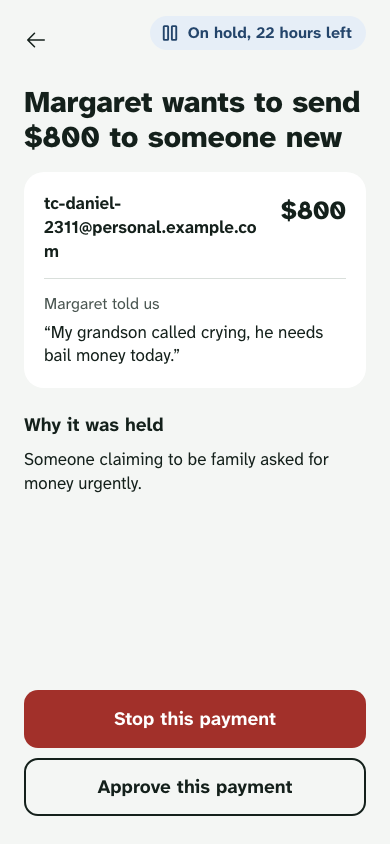
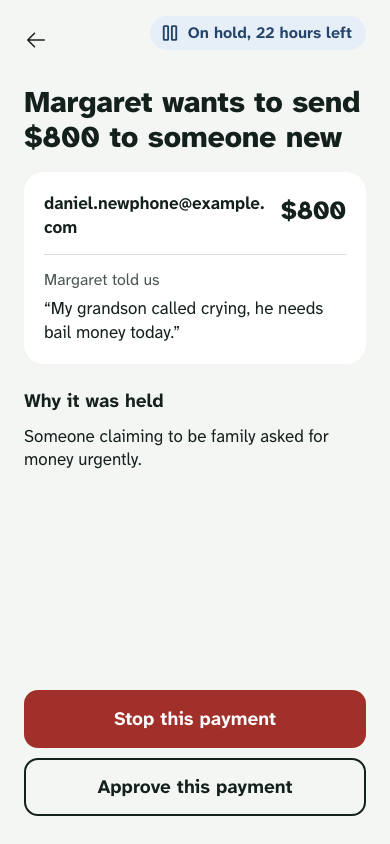
docs: invented payee in screenshots, aftercare findings shot, review fixes
Screenshot stubs now use the invented payee daniel.newphone@example.com
from the README path. The held, verify and circle-review images were
re-shot on a local production build. A new stubbed screen shows an
aftercare review with findings and the tool list open. The README gets
a hero strip and a "Built with" line. The vision model is no longer
named. Button copy is quoted exactly, Robert is "Just me", and the
Elastic and KERNEL note moves to Limits.

Claude-Session: https://claude.ai/code/session_01XCmCYpfCuLqyKrCLNuw6fP

Changed region(s): [[0.0923, 0.2156, 0.8308, 0.4313], [0.0615, 0.4621, 0.8308, 0.5853]]

diff --git a/e2e/screens.ts b/e2e/screens.ts
@@ -1,7 +1,7 @@
 import type { Page } from "@playwright/test";
 import type { Persona } from "../src/server/demo";
 import {
-  PAYMENT_ID, PAYMENT_KINDS, VERIFY_ID, stubCircleAlerts, stubCircleReview, stubHighRiskPayment, stubNotChecked, stubPayment, stubScamCheck, stubVerify,
+  PAYMENT_ID, PAYMENT_KINDS, STUB_PAYEE, VERIFY_ID, stubAftercare, stubCircleAlerts, stubCircleReview, stubHighRiskPayment, stubNotChecked, stubPayment, stubScamCheck, stubVerify,
 } from "./stubs";
 
 export type Screen = { name: string; as: Persona | null; prepare: (page: Page) => Promise<void> };
@@ -43,7 +43,7 @@ export const SCREENS: Screen[] = [
     prepare: async (p) => {
       await stubHighRiskPayment(p);
       await p.goto("/send");
-      await p.getByLabel("Who are you paying?").fill("tc-daniel-2311@personal.example.com");
+      await p.getByLabel("Who are you paying?").fill(STUB_PAYEE);
       await p.getByLabel("How much?").fill("800");
       await p.getByTestId("check").click();
       await p.getByTestId("risk-high").waitFor();
@@ -66,6 +66,17 @@ export const SCREENS: Screen[] = [
     prepare: async (p) => { await stubCircleReview(p, { closed: true }); await p.goto(`/circle/payments/${PAYMENT_ID}`); await settle(p); await p.getByRole("heading").first().waitFor(); },
   },
   { name: "circle-dashboard", as: "sarah", prepare: async (p) => { await p.goto("/circle/dashboard"); await p.locator(".ag-root").first().waitFor(); } },
+  {
+    name: "circle-dashboard-aftercare", as: "sarah",
+    prepare: async (p) => {
+      await stubAftercare(p);
+      await p.goto("/circle/dashboard");
+      await p.locator(".ag-root").first().waitFor();
+      await p.getByTestId("aftercare-run").click();
+      await p.getByTestId("aftercare-finding").first().waitFor();
+      await p.getByTestId("aftercare-tools").locator("summary").click();
+    },
+  },
   { name: "trends", as: "sarah", prepare: async (p) => { await p.goto("/trends"); await settle(p); } },
   { name: "verify-ask", as: "daniel", prepare: async (p) => { await stubVerify(p, "ask"); await p.goto(`/verify/${VERIFY_ID}`); await p.getByTestId("not-me").waitFor(); } },
   { name: "verify-not-for-you", as: "daniel", prepare: async (p) => { await stubVerify(p, "not_for_you"); await p.goto(`/verify/${VERIFY_ID}`); await p.getByTestId("not-for-you").waitFor(); } },

diff --git a/e2e/stubs.ts b/e2e/stubs.ts
@@ -4,7 +4,9 @@ import type { Page } from "@playwright/test";
 
 export const PAYMENT_ID = "00000000-0000-4000-a000-000000000003";
 export const VERIFY_ID = "00000000-0000-4000-a000-0000000000aa";
-const PAYEE = "tc-daniel-2311@personal.example.com";
+/** An invented scam payee, the same one the README demo path uses. Stubs never reach PayPal, so it needn't be a sandbox account. */
+export const STUB_PAYEE = "daniel.newphone@example.com";
+const PAYEE = STUB_PAYEE;
 const iso = (hours: number) => new Date(Date.now() + hours * 3600e3).toISOString();
 
 export type PaymentKind =
@@ -103,5 +105,32 @@ export async function stubHighRiskPayment(page: Page) {
     r.request().method() === "POST"
       ? r.fulfill({ json: { paymentId: PAYMENT_ID, orderId: "STUB-ORDER", risk: { level: "high", reasons: ["Someone claiming to be family asked for money urgently.", "It asks you to keep this secret."] } } })
       : r.continue(),
+  );
+}
+
+/** Margaret's seeded payments that the stubbed aftercare findings point at (see seedDemoHistory in src/server/demoSeed.ts). */
+const SEEDED_VET_PAYMENT = "00000000-0000-4000-a000-000000000008";
+const SEEDED_LOTTO_PAYMENT = "00000000-0000-4000-a000-000000000007";
+
+/** A finished aftercare review, without calling Groq or PayPal. Same shape as AftercareReport. Sign in as sarah first. */
+export async function stubAftercare(page: Page) {
+  await page.route("**/api/circle/aftercare", (r) =>
+    r.fulfill({
+      json: {
+        summary: "Nothing went to an account on the scam list. One recent payment was larger than usual, and one earlier hold ended without anyone deciding.",
+        findings: [
+          {
+            paymentId: SEEDED_VET_PAYMENT, severity: "check", title: "A larger payment than usual",
+            detail: "This went through after a warning. If Margaret knows the vet clinic, there's nothing to do.",
+          },
+          {
+            paymentId: SEEDED_LOTTO_PAYMENT, severity: "info", title: "A held prize-fee payment ended on its own",
+            detail: "Nobody decided within 72 hours, so the hold ended and the money stayed in Margaret's account.",
+          },
+        ],
+        toolCalls: [{ name: "list_transactions", ok: true }],
+        usedPayPal: true,
+      },
+    }),
   );
 }

diff --git a/README.md b/README.md
@@ -2,7 +2,14 @@
 
 **Scammers pretend to be someone you trust. So we ask that person.**
 
+<p align="center">
+  <img src="docs/images/verify-ask.png" alt="Daniel's screen: Did you just ask Margaret for $800? with It wasn't me and Yes, it was me" width="45%">
+  <img src="docs/images/payment-stopped.png" alt="Margaret's screen: Payment stopped. Your money is safe." width="45%">
+</p>
+
 Trust Circle holds a risky PayPal payment and checks with the person the scammer is pretending to be, and with the sender's family, before any money moves. It runs entirely in the PayPal sandbox. No real money moves.
+
+**Built with:** PayPal Orders v2 (authorize, capture, void), Payouts, verified Webhooks, Agent Toolkit · Groq · AG Grid / AG Charts · Render
 
 - Live demo: {{DEMO_URL}}
 - Video (under 3 minutes): {{VIDEO_URL}}
@@ -20,7 +27,7 @@ The landing page signs you in as a demo person with one tap. There is no sign-up
 | **Sarah** | Margaret's daughter, in her circle. Sees the dashboard, trends and aftercare. |
 | **Daniel** | Margaret's grandson, the real person a scammer pretends to be. |
 | **Priya** | A freelancer (Business preset). Her accountant **Tom** is her circle. |
-| **Robert** | Solo preset, no circle. |
+| **Robert** | Just me (no circle). |
 
 **As Margaret**
 
@@ -29,7 +36,7 @@ The landing page signs you in as a demo person with one tap. There is no sign-up
 
    You get "This message is very likely a scam" and what gave it away.
 2. Go back home and tap **Send money**. Pay `daniel.newphone@example.com` $800. When asked who asked you and why, write: *My grandson Daniel called crying, he's in jail and needs bail money today.*
-3. Trust Circle says "Let's pause before this goes". Continue, and approve in the PayPal sandbox window. **The PayPal sandbox buyer login for this step is in the Devpost testing instructions, not in this repo.**
+3. Trust Circle says "Let's pause before this goes". Tap **Continue, and let Sarah review it**, and approve in the PayPal sandbox window. **The PayPal sandbox buyer login for this step is in the Devpost testing instructions, not in this repo.**
 4. The payment is approved in PayPal but held: the money hasn't left Margaret's account. The screen tells her Trust Circle has asked Daniel whether it was really him.
 
 **As Daniel, then Sarah**
@@ -102,9 +109,11 @@ A reported scam adds its identifiers to a shared list as unconfirmed. An entry i
 
 ### 7. Aftercare
 
-<img src="docs/images/dashboard-aftercare.png" alt="Sarah's dashboard: money protected, scams stopped, the Aftercare card and the AG Grid table of payments" width="100%">
+<img src="docs/images/dashboard-aftercare.png" alt="Sarah's dashboard: money protected, scams stopped, an aftercare review with two findings and the list of tools the agent called, and the AG Grid table of payments" width="100%">
 
-From the dashboard, Sarah can ask an agent to review Margaret's recent payments for anything the earlier checks missed. The agent can only read: its PayPal tools are `list_transactions` and `get_order`, scoped in code to Margaret's own payments. If a completed payment went to an account that is now on the scam list, the finding says so and Sarah can copy a dispute draft. The app never sends it and never moves money.
+*The findings in this screenshot are a sample report in the app's real format, so the picture doesn't depend on a live model run.*
+
+From the dashboard, Sarah can ask an agent to review Margaret's recent payments for anything the earlier checks missed. The agent can only read: its PayPal tools are `list_transactions` and `get_order`, scoped in code to Margaret's own payments. Findings are graded "Needs action", "Worth a check" or "For information", and "What the agent checked" lists every tool call. If a completed payment went to an account that is now on the scam list, the finding says so and Sarah can copy a dispute draft. The app never sends it and never moves money.
 
 ## How PayPal is used
 
@@ -130,7 +139,7 @@ Every PayPal call carries a `PayPal-Request-Id` derived from the payment id, so 
 | Local MiniLM embedding (`Xenova/all-MiniLM-L6-v2`) | Turns anonymised scam scripts into vectors inside the server process, for pattern matching in pgvector (similarity threshold 0.35) | `src/patterns/embedder.ts`, `src/patterns/patternService.ts` |
 | Agent Toolkit tool loop | At most 4 model tool calls in 18 seconds, over a fixed read-only allow-list. Any other tool is refused and recorded. | `src/aftercare/aftercareAgent.ts`, `src/aftercare/tools.ts` |
 
-During the build both Groq model settings were set to `qwen/qwen3.8-27b`, which gave valid JSON fastest and read screenshot text exactly in our tests. The evaluation below used it.
+The text model used for the evaluation below was `qwen/qwen3.8-27b` (see [docs/eval/results.md](docs/eval/results.md)). The vision model is whatever `GROQ_VISION_MODEL` names.
 
 Two rules hold everywhere:
 
@@ -229,8 +238,6 @@ The lead-story sequence diagram, the payment state machine and the webhook and a
 - **AG Grid and AG Charts.** The circle dashboard's payment table is AG Grid (`src/app/circle/dashboard/DashboardGrid.tsx`), and the scam trends page uses AG Charts for the stacked bar chart and AG Grid for the table (`src/app/trends/TrendsView.tsx`).
 - **Render.** The app is hosted on a Render free web service, defined by the Blueprint in [`render.yaml`](render.yaml).
 
-The original plan used Elastic for pattern search. We replaced it with pgvector and a local MiniLM model, because a trial would have expired before judging. Link inspection with KERNEL was planned as a phase 2 and was not built.
-
 ## Run it locally
 
 **Prerequisites:** Node 22 (22.12 or later), Docker, a PayPal sandbox app (client id and secret) and a Groq API key.
@@ -244,7 +251,7 @@ npm run seed && npm run seed:patterns && npm run seed:history
 npm run dev                     # http://localhost:3000
 ```
 
-`seed:patterns` downloads the 23 MB embedding model the first time.
+`seed:patterns` downloads the embedding model the first time.
 
 | Variable | Required | What it is |
 |---|---|---|
@@ -253,7 +260,8 @@ npm run dev                     # http://localhost:3000
 | `NEXT_PUBLIC_PAYPAL_CLIENT_ID` | Yes | Same client id, for the browser |
 | `DATABASE_URL` | Yes | Local default in `.env.example` |
 | `GROQ_API_KEY` | Yes | Groq console |
-| `GROQ_TEXT_MODEL`, `GROQ_VISION_MODEL` | Yes | Groq model names (we used `qwen/qwen3.8-27b`) |
+| `GROQ_TEXT_MODEL` | Yes | Groq text model name (the evaluation used `qwen/qwen3.8-27b`) |
+| `GROQ_VISION_MODEL` | Yes | Groq vision model name, for screenshots |
 | `GROQ_GUARD_MODEL` | No | Defaults to `meta-llama/llama-prompt-guard-2-86m` |
 | `SESSION_SECRET` | Yes | At least 32 characters |
 | `CRON_SECRET` | Yes | At least 24 characters, for the cron routes |
@@ -293,6 +301,7 @@ Render (web service), Neon (Postgres with pgvector) and GitHub Actions (schedule
 - **Expiry runs on a GitHub Actions schedule**, which can run a few minutes late, so a hold can end a few minutes after 72 hours.
 - **Aftercare needs Transaction Search** switched on for the sandbox app. Sandbox data lags by about 3 hours, and older demo payments carry no `custom_id`, so the agent often falls back to Trust Circle's own records. It says so when it does.
 - **The pattern matcher costs false alarms** (see Accuracy).
+- **Elastic and KERNEL were not used.** The original plan used Elastic for pattern search. We replaced it with pgvector and a local MiniLM model, because a trial would have expired before judging. Link inspection with KERNEL was planned as a phase 2 and was not built.
 - Some edge cases are deferred and logged as retries, for example reconciling an order PayPal reports as already authorised.
 
 ## Licence

diff --git a/docs/video-script.md b/docs/video-script.md
@@ -8,7 +8,7 @@ Target length: 2:50, under Devpost's 3-minute limit. One narrator. Every on-scre
 - Run the `demo reset` workflow from the repo's Actions tab (or record soon after 09:00 UTC) so the demo starts clean.
 - Browser zoom 100%. Use a phone, or the iPhone simulator, at about 390 px wide for Margaret's and Daniel's screens, and a laptop window at about 1280 px for Sarah's dashboard and trends.
 - For the push shot (1:30), Daniel's device needs push turned on: on an iPhone, add the app to the Home Screen first and turn on alerts in the app. If push isn't set up, show the alert on his circle screen instead and change the narration from "his phone buzzes" to "Daniel sees the request".
-- The PayPal sandbox buyer login for the approval step is in the private Devpost testing instructions. Don't show the password field being typed: cut from **Continue** to the approved hold.
+- The PayPal sandbox buyer login for the approval step is in the private Devpost testing instructions. Don't show the password field being typed: cut from **Continue, and let Sarah review it** to the approved hold.
 - Use only invented names, numbers and companies, as in the script (`daniel.newphone@example.com`, `+1 (415) 555-0199`).
 - No third-party trademarks beyond PayPal's own sandbox UI, which the project integrates. No logos of banks or other brands. No music unless it is licensed for this use or you made it; silence or room tone is fine.
 - Upload to YouTube as **Public** and check the length is under 3:00.
@@ -21,7 +21,7 @@ Target length: 2:50, under Devpost's 3-minute limit. One narrator. Every on-scre
 | 0:15–0:35 | Margaret checks a message | Phone. **Try as Margaret**, then **Check a message**. Paste the "Hi Grandma it's me, I lost my phone…" text. Result: "This message is very likely a scam", with "What gave it away". | "This is Margaret. Her 'grandson' texts from a new number asking for $800 in gift cards. She pastes it in. Groq reads it and tells her, in plain words, what gave it away." |
 | 0:35–0:55 | She tries to pay anyway | **Send money**: `daniel.newphone@example.com`, $800, "My grandson Daniel called crying, he's in jail and needs bail money today." Screen: "Let's pause before this goes", with the reasons. | "Then he calls, crying. She wants to send the money anyway. Before PayPal is even involved, Trust Circle checks the payment: a new payee, more than her family's limit, and a story that sounds like a known scam. The AI can raise the risk, never lower it." |
 | 0:55–1:15 | Approve in PayPal sandbox | **Continue, and let Sarah review it**, the PayPal sandbox approval window, then back to the app. | "She can still go ahead, and she approves in PayPal as usual. But the payment is only authorised, not captured. As far as she's concerned, it's done, so the pressure is off." |
-| 1:15–1:30 | The hold ring | The hold screen: the ring, "$800 On hold", "Your money hasn't left your account", and "We've asked Daniel if it was really them". | "The money hasn't left her account. And here's the key step: we've asked Daniel, the real grandson, whether it was really him." |
+| 1:15–1:30 | Waiting for Daniel | The waiting screen: "We've asked Daniel if it was really them". | "The money hasn't left her account. And here's the key step: we've asked Daniel, the real grandson, whether it was really him." |
 | 1:30–1:50 | Daniel's phone | Second phone. The push alert arrives. Tap it: "Did you just ask Margaret for $800?" Tap **It wasn't me**. Screen: "Thank you, Daniel. We stopped it." | "Daniel's phone buzzes. Did you just ask Margaret for $800? A scammer can copy his voice and his story, but he can't answer from Daniel's phone. One tap: it wasn't me." |
 | 1:50–2:05 | Margaret is safe | Margaret's phone: "Payment stopped. Your money is safe." with "Sarah has been told" and "This account is on the shared scam list now, so other families are warned." | "The PayPal authorisation is voided. Margaret sees a calm result, with no blame. Her daughter is told, and that account is now on a shared scam list, so other families are protected too." |
 | 2:05–2:30 | Sarah's circle | Laptop. **Try as Sarah, her daughter**: her circle, then **See all payments** (AG Grid dashboard: money protected, scams stopped), **Review recent payments** (aftercare findings), then **Scam trends** (AG Charts). | "Sarah, her daughter, sees everything in one place, built with AG Grid. An aftercare agent, using PayPal's Agent Toolkit, reviews Margaret's recent payments. It can only read, never move money. And AG Charts shows which scams people are reporting, including reworded versions we catch by meaning." |

diff --git a/docs/submission.md b/docs/submission.md
@@ -106,8 +106,8 @@ PayPal tools (all in the sandbox):
 
 AI tools:
 
-- **Groq text model (we used `qwen/qwen3.8-27b`):** judges each payment and message, names who is being impersonated, writes anonymised scam-pattern descriptions, and drives the aftercare tool loop. Output is JSON checked against a schema.
-- **Groq vision model (same model in our build):** reads screenshots of suspicious messages.
+- **Groq text model (`GROQ_TEXT_MODEL`; the evaluation used `qwen/qwen3.8-27b`):** judges each payment and message, names who is being impersonated, writes anonymised scam-pattern descriptions, and drives the aftercare tool loop. Output is JSON checked against a schema.
+- **Groq vision model (`GROQ_VISION_MODEL`):** reads screenshots of suspicious messages.
 - **Meta Prompt Guard 2 (`meta-llama/llama-prompt-guard-2-86m`, on Groq):** flags text that tries to instruct the AI, which makes the check high risk.
 - **`all-MiniLM-L6-v2` (local, via Transformers.js):** embeds anonymised scam scripts for meaning-based matching in Postgres pgvector, so reworded scams are caught.
 
@@ -120,14 +120,14 @@ The AI can raise a risk level, never lower it, and when it can't run the payment
 > No sign-up: the landing page signs you in as a demo person with one tap.
 >
 > 1. Tap **Try as Margaret**. Open **Check a message** and paste: "Hi Grandma it's me, I lost my phone so this is my new number. I need $800 in gift cards today. Please don't tell mom. Text me at +1 (415) 555-0199". You'll see why it's a scam.
-> 2. Back home, tap **Send money**. Pay `daniel.newphone@example.com` $800. For "Who asked you to make this payment, and why?", write "My grandson Daniel called crying, he's in jail and needs bail money today." Continue past the pause screen and approve in the PayPal sandbox window with this sandbox buyer login:
+> 2. Back home, tap **Send money**. Pay `daniel.newphone@example.com` $800. For "Who asked you to make this payment, and why?", write "My grandson Daniel called crying, he's in jail and needs bail money today." Tap **Continue, and let Sarah review it** on the pause screen and approve in the PayPal sandbox window with this sandbox buyer login:
 >    - Email: **USER TO FILL (privately, on Devpost only)**
 >    - Password: **USER TO FILL (privately, on Devpost only)**
 > 3. The payment is held. Sign out, open **Other demo accounts** and choose **Daniel, the grandson**. Open the request and tap **It wasn't me**.
 > 4. Sign in as Margaret again: "Payment stopped. Your money is safe."
 > 5. Tap **Try as Sarah, her daughter**. See what happened, open **See all payments** (AG Grid dashboard) and **Review recent payments** (the aftercare agent), then **Scam trends** (AG Charts).
 >
-> Other accounts: Priya (a freelancer, Business preset) and Tom, her accountant; Robert (Solo, no circle).
+> Other accounts: Priya (a freelancer, Business preset) and Tom, her accountant; Robert (Just me, no circle).
 >
 > The shared demo resets every day at 09:00 UTC. Everything runs in the PayPal sandbox; no real money moves. Setup to run it yourself is in the README.
 
